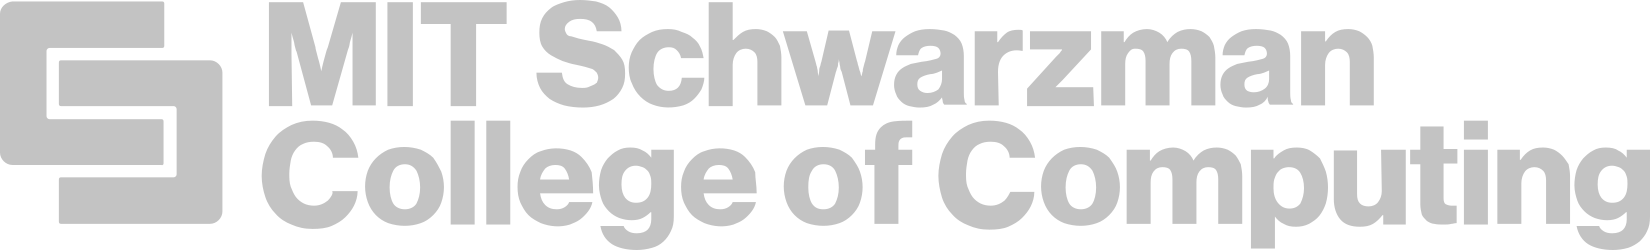
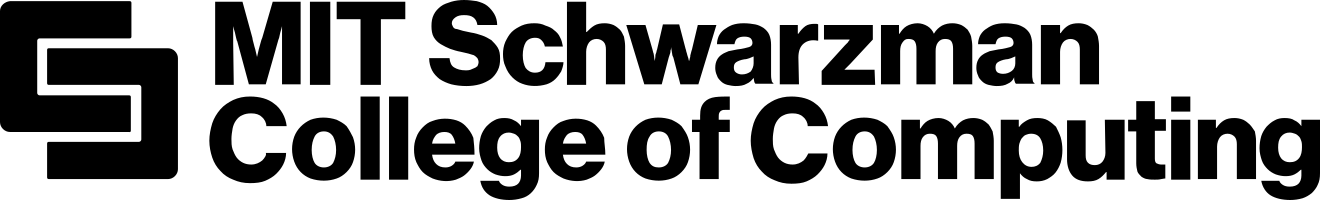
sponsors

diff --git a/docs/index.html b/docs/index.html
@@ -101,9 +101,9 @@ security.</p>
 	<div class="well">
 <h4>Sponsors</h4>
 
-<p style="text-align:center;"><a href="https://computing.mit.edu/"><img src="images/mit_cc_black.png" style="width: 225px"></a></p>
-<p style="text-align:center;"><a href="https://www.eecs.mit.edu/"><img src="images/mit_eecs_black.png" style="width: 225px"></a></p>
-<p style="text-align:center;"><a href="https://engineering.mit.edu/"><img src="images/mit_se_black.png" style="width: 225px"></a></p>
+<p style="text-align:center;"><a href="https://engineering.mit.edu/"><img src="images/mit_se.png" style="width: 225px"></a></p>
+<p style="text-align:center;"><a href="https://computing.mit.edu/"><img src="images/mit_cc.png" style="width: 225px"></a></p>
+<p style="text-align:center;"><a href="https://www.eecs.mit.edu/"><img src="images/mit_eecs.png" style="width: 225px"></a></p>
 
 </div>
 

diff --git a/source/_site/index.html b/source/_site/index.html
@@ -101,9 +101,9 @@ security.</p>
 	<div class="well">
 <h4>Sponsors</h4>
 
-<p style="text-align:center;"><a href="https://computing.mit.edu/"><img src="images/mit_cc_black.png" style="width: 225px"></a></p>
-<p style="text-align:center;"><a href="https://www.eecs.mit.edu/"><img src="images/mit_eecs_black.png" style="width: 225px"></a></p>
-<p style="text-align:center;"><a href="https://engineering.mit.edu/"><img src="images/mit_se_black.png" style="width: 225px"></a></p>
+<p style="text-align:center;"><a href="https://engineering.mit.edu/"><img src="images/mit_se.png" style="width: 225px"></a></p>
+<p style="text-align:center;"><a href="https://computing.mit.edu/"><img src="images/mit_cc.png" style="width: 225px"></a></p>
+<p style="text-align:center;"><a href="https://www.eecs.mit.edu/"><img src="images/mit_eecs.png" style="width: 225px"></a></p>
 
 </div>
 

diff --git a/source/_includes/sponsors.html b/source/_includes/sponsors.html
@@ -1,8 +1,8 @@
 <div class="well">
 <h4>Sponsors</h4>
 
-<p style="text-align:center;"><a href="https://computing.mit.edu/"><img src="images/mit_cc_black.png" style="width: 225px"></a></p>
-<p style="text-align:center;"><a href="https://www.eecs.mit.edu/"><img src="images/mit_eecs_black.png" style="width: 225px"></a></p>
-<p style="text-align:center;"><a href="https://engineering.mit.edu/"><img src="images/mit_se_black.png" style="width: 225px"></a></p>
+<p style="text-align:center;"><a href="https://engineering.mit.edu/"><img src="images/mit_se.png" style="width: 225px"></a></p>
+<p style="text-align:center;"><a href="https://computing.mit.edu/"><img src="images/mit_cc.png" style="width: 225px"></a></p>
+<p style="text-align:center;"><a href="https://www.eecs.mit.edu/"><img src="images/mit_eecs.png" style="width: 225px"></a></p>
 
 </div>
